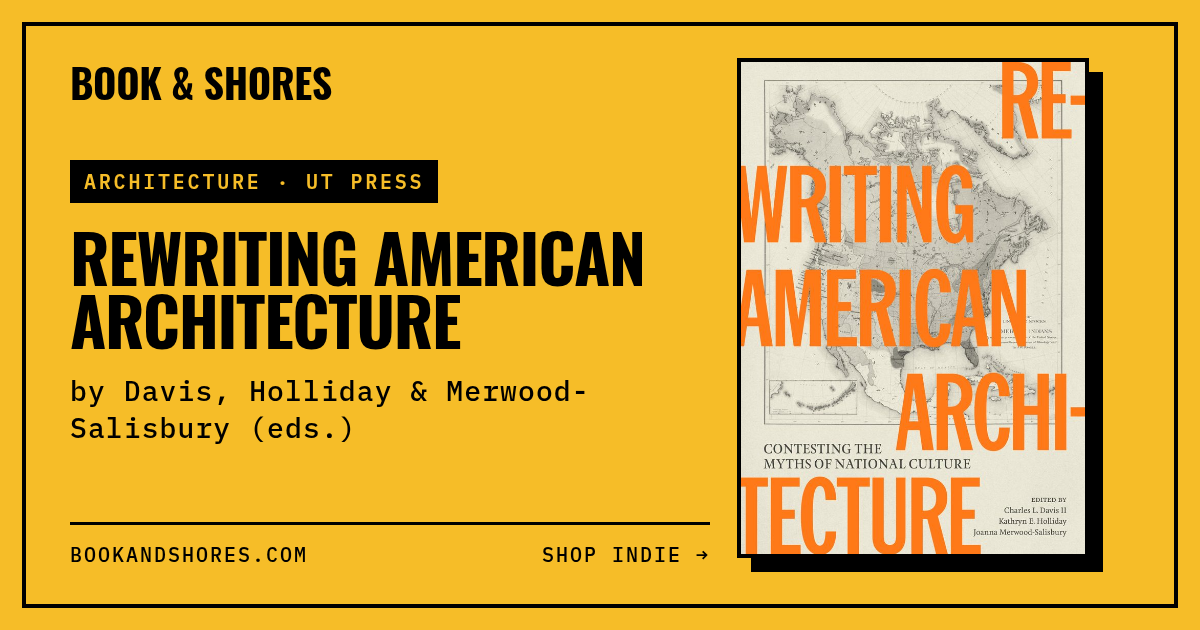
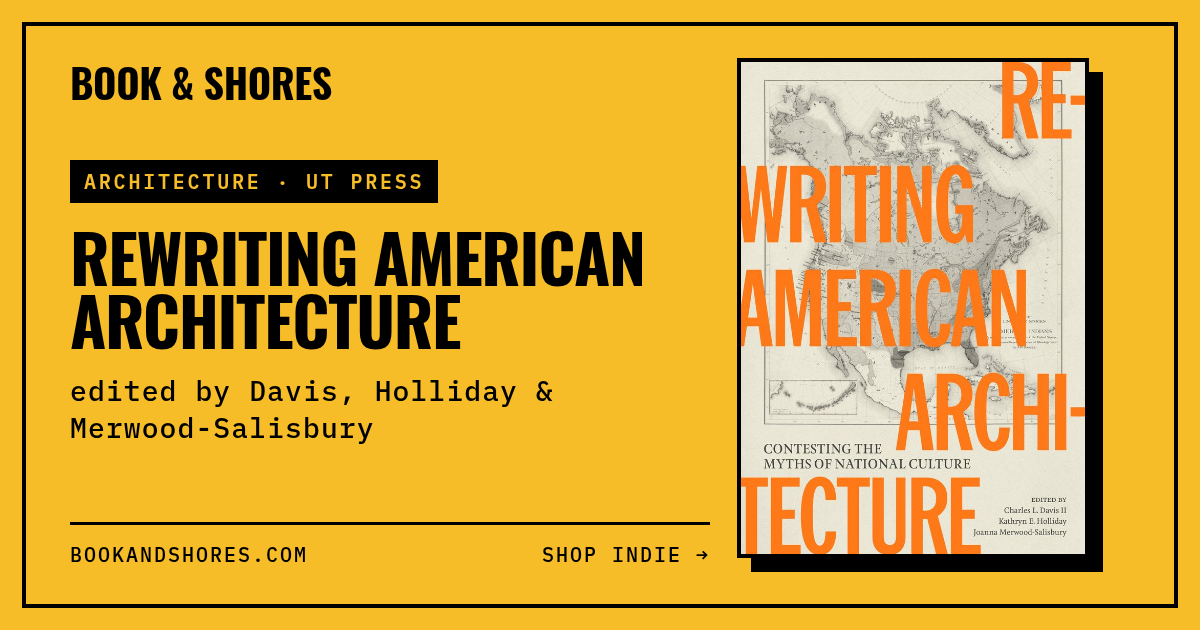
Remove purchase-source footer line on RAA + 3 new pages; RAA full take, curator note rewrite, 'edited by' card byline

Changed region(s): [[0.0617, 0.6032, 0.4933, 0.6635], [0.0617, 0.6635, 0.3083, 0.6937]]

diff --git a/book-rewriting-american-architecture.html b/book-rewriting-american-architecture.html
@@ -222,17 +222,19 @@
     <main>
         <!-- B&S: book page -->
         <section class="section">
-            <p class="intro-text"><strong>What this page is:</strong> our shelf card for one new book. Read the short version below, then tap Buy Now.</p>
+            <p class="intro-text"><strong>What this page is:</strong> our shelf card for one new book. Read our take below, then tap Buy Now.</p>
             <div class="book-detail">
                 <img src="weekly-texas-architecture.jpg" alt="Rewriting American Architecture: Contesting the Myths of National Culture, book cover">
                 <div>
                     <h2>Rewriting American Architecture</h2>
                     <p class="book-meta">Edited by Charles L. Davis II, Kathryn E. Holliday and Joanna Merwood-Salisbury • Architecture history • University of Texas Press paperback • Published September 2026</p>
-                    <p>The usual story of nineteenth-century American architecture is one of steady progress toward a single national style. The twenty essays in this collection argue that the buildings tell a messier story, shaped by race, labor, settler colonialism and territorial expansion. They range from Black builders and churches to Indigenous spatial practices, the Texas border and the politics of who counts as an architect.</p>
-                    <!-- B&S: OUR READ (DRAFT from the review PDF's introduction and the openings of chapters 4 and 9; AE to approve or rewrite before this goes live) -->
-                    <p class="our-read"><strong>Our read:</strong> the part that got us is who gets named. In the chapter on the Mason family of Austin, the Black builders, enslaved and free, behind some of the city's best-known buildings were often left out of the record while the Anglo settlers got the credit, and the author goes to genealogy and archives to put their names back. The Brownsville and Matamoros chapter does something similar for a border town that sits outside both countries' building histories. We have read the introduction and the openings of those two chapters, not all 408 pages, so consider this a first look.</p>
+                    <p style="margin-bottom:0.9rem;">The usual story of nineteenth-century American architecture is one of steady progress toward a single national style. The twenty essays in this collection argue that the buildings tell a messier story, shaped by race, labor, settler colonialism and territorial expansion. They range from Black builders and churches to Indigenous spatial practices, the Texas border and the politics of who counts as an architect.</p>
+                    <!-- B&S: OUR READ (from our full read of the publisher's review copy; AE to approve before this goes live) -->
+                    <p class="our-read" style="margin-bottom:0.9rem;"><strong>Our read:</strong> the thesis lands: "The history of architecture is not only a history of design but also a history of the land and of those who labored to shape it" (p. 6). The best essays are case studies you can stand in, and the back half is the strongest stretch. Tara A. Dudley traces Austin's Black stonemason Mason family, whose freedmen's settlement, Masontown, has "not even a historical marker" today (p. 82). Stephen Fox reads Brownsville and Matamoros as one border place. The mahogany essay follows the wood from coerced logging to English country houses and ends on this: "It is appropriate, then, that mahogany so commonly became doors—architectural devices for discretionary exclusion" (p. 201). The Standing Rock chapter, set around the Northern Pacific's Mandan depot and the 1888 land commission, ends cold: "In the end, only 22 out of 1,133 eligible men cast a vote" (p. 269). The Library of Congress essay on the building's 33 "ethnological heads" quotes the plain plan: "in the rear we have put the black races" (p. 332). Joanna Merwood-Salisbury takes apart the claim that Chicago's Home Insurance Building was the first skyscraper (p. 342), and notes that Jenney himself called it "the successful application of methods in use, with some variation in detail" (p. 347). The closing piece on where Wright's "Usonia" came from is a fun bit of word detective work.</p>
+                    <p class="our-read" style="margin-bottom:0.9rem;"><strong>Good to know:</strong> the introduction is the hardest going. It leans on terms like "ethnonational mythologies" and "historiographic construction" (pp. 4, 6), so start with the case studies if you like. With twenty contributors it reads more like a set of strong essays than a single argument, and it is not a picture-book survey.</p>
+                    <p class="our-read" style="margin-bottom:0.9rem;"><strong>In short:</strong> an important corrective that gets better as it goes. Start with the mahogany, Standing Rock, Library of Congress and skyscraper chapters, then double back.</p>
                     <!-- B&S: curator note, edit in your own words -->
-                    <p class="curator-note">The setting of the book is the United States across the long nineteenth century, from the early republic to the New Deal, with essays set in places such as Austin, Brownsville and Matamoros, Dakota Territory and Southern California. It is 408 pages with 114 black-and-white photographs. The University of Texas Press kindly sent us a digital copy. This page is our introduction and a first look, not a full review. Read it, then tell us what you think.</p>
+                    <p class="curator-note">Twenty contributors range across the long nineteenth century, from the early republic to the New Deal, with essays on Austin, Brownsville and Matamoros, Dakota Territory and Southern California. It is 408 pages with 114 black-and-white photographs. The University of Texas Press kindly sent us a review copy, and we read it in full. Our page numbers come from that copy and may differ slightly in the finished book.</p>
                     <p style="margin-bottom:1.2rem;"><a href="atlas.html" style="color: var(--black); font-weight:500;">On the Atlas: Austin, and Brownsville and Matamoros on the Texas border, places two of these essays study →</a></p>
                     <p><strong>What to do:</strong> if you love old buildings, historic preservation or American history, and want to see who built them and who was left out of the textbooks, tap Buy Now.</p>
                     <a href="https://bookshop.org/a/125864/9781477334171" class="buy-btn" target="_blank" rel="noopener sponsored" aria-label="Buy Rewriting American Architecture on Bookshop.org (opens in a new tab)">Buy Now</a>
@@ -250,7 +252,6 @@
         <div class="footer-content">
             <p style="margin-top: 2rem;">© 2026 Book &amp; Shores • Contact: <a href="mailto:readme@bookandshores.com" style="color: var(--black);">readme@bookandshores.com</a></p>
             <p class="bs-gift-footer" style="margin-top:0.8rem; font-size:0.9rem;"><a href="https://bookshop.org/a/125864/gift_cards" target="_blank" rel="noopener sponsored" style="color: var(--black); font-weight: 500;" aria-label="Give a gift card (opens in a new tab)">Give a gift card →</a></p>
-            <p style="font-size:0.85rem; color:var(--gray); margin-top:0.6rem;">Book &amp; Shores earns a small commission from purchases, which supports independent bookstores.</p>
         </div>
     </footer>
 </body>

diff --git a/book-learning-from-savannah.html b/book-learning-from-savannah.html
@@ -24,6 +24,18 @@
     <meta name="twitter:description" content="Learning from Savannah by David W. Gobel and Robin B. Williams (University of Georgia Press): how Savannah&#x27;s famous plan of squares was stretched for a century and a half, and how it shaped the city&#x27;s houses, churches and civic buildings. Curated by Book &amp; Shores.">
     <meta name="twitter:image" content="https://bookandshores.com/og/book-learning-from-savannah.png">
     <meta name="twitter:image:alt" content="Learning from Savannah by David W. Gobel and Robin B. Williams: book cover on a Book &amp; Shores card">
+    <meta property="og:type" content="book">
+    <meta property="og:url" content="https://bookandshores.com/book-learning-from-savannah.html">
+    <meta property="og:image" content="https://bookandshores.com/og/book-rewriting-american-architecture.png">
+    <meta property="og:image:width" content="1200">
+    <meta property="og:image:height" content="630">
+    <meta property="og:image:alt" content="Rewriting American Architecture, edited by Charles L. Davis II, Kathryn E. Holliday and Joanna Merwood-Salisbury: book cover on a Book &amp; Shores card">
+    <meta name="twitter:card" content="summary_large_image">
+    <meta name="twitter:site" content="@bookandshores">
+    <meta name="twitter:title" content="Rewriting American Architecture | Book &amp; Shores">
+    <meta name="twitter:description" content="Rewriting American Architecture, edited by Charles L. Davis II, Kathryn E. Holliday and Joanna Merwood-Salisbury (University of Texas Press): twenty essays that retell nineteenth-century American architecture through race, land, labor and settler colonialism. Curated by Book &amp; Shores.">
+    <meta name="twitter:image" content="https://bookandshores.com/og/book-rewriting-american-architecture.png">
+    <meta name="twitter:image:alt" content="Rewriting American Architecture, edited by Charles L. Davis II, Kathryn E. Holliday and Joanna Merwood-Salisbury: book cover on a Book &amp; Shores card">
     <link rel="preconnect" href="https://fonts.googleapis.com">
     <link rel="preconnect" href="https://fonts.gstatic.com" crossorigin>
     <link href="https://fonts.googleapis.com/css2?family=Oswald:wght@400;500;700&family=IBM+Plex+Mono:wght@400;500&display=swap" rel="stylesheet">
@@ -252,7 +264,6 @@
         <div class="footer-content">
             <p style="margin-top: 2rem;">© 2026 Book &amp; Shores • Contact: <a href="mailto:readme@bookandshores.com" style="color: var(--black);">readme@bookandshores.com</a></p>
             <p class="bs-gift-footer" style="margin-top:0.8rem; font-size:0.9rem;"><a href="https://bookshop.org/a/125864/gift_cards" target="_blank" rel="noopener sponsored" style="color: var(--black); font-weight: 500;" aria-label="Give a gift card (opens in a new tab)">Give a gift card →</a></p>
-            <p style="font-size:0.85rem; color:var(--gray); margin-top:0.6rem;">Book &amp; Shores earns a small commission from purchases, which supports independent bookstores.</p>
         </div>
     </footer>
 </body>

diff --git a/book-big-american-writer.html b/book-big-american-writer.html
@@ -24,6 +24,18 @@
     <meta name="twitter:description" content="Big American Writer: The Bilingual Jack Kerouac by Jean-Christophe Cloutier (Columbia University Press): Kerouac&#x27;s French manuscripts and his French Canadian upbringing in Lowell, read as the engine of his work. Curated by Book &amp; Shores.">
     <meta name="twitter:image" content="https://bookandshores.com/og/book-big-american-writer.png">
     <meta name="twitter:image:alt" content="Big American Writer by Jean-Christophe Cloutier: book cover on a Book &amp; Shores card">
+    <meta property="og:type" content="book">
+    <meta property="og:url" content="https://bookandshores.com/book-big-american-writer.html">
+    <meta property="og:image" content="https://bookandshores.com/og/book-rewriting-american-architecture.png">
+    <meta property="og:image:width" content="1200">
+    <meta property="og:image:height" content="630">
+    <meta property="og:image:alt" content="Rewriting American Architecture, edited by Charles L. Davis II, Kathryn E. Holliday and Joanna Merwood-Salisbury: book cover on a Book &amp; Shores card">
+    <meta name="twitter:card" content="summary_large_image">
+    <meta name="twitter:site" content="@bookandshores">
+    <meta name="twitter:title" content="Rewriting American Architecture | Book &amp; Shores">
+    <meta name="twitter:description" content="Rewriting American Architecture, edited by Charles L. Davis II, Kathryn E. Holliday and Joanna Merwood-Salisbury (University of Texas Press): twenty essays that retell nineteenth-century American architecture through race, land, labor and settler colonialism. Curated by Book &amp; Shores.">
+    <meta name="twitter:image" content="https://bookandshores.com/og/book-rewriting-american-architecture.png">
+    <meta name="twitter:image:alt" content="Rewriting American Architecture, edited by Charles L. Davis II, Kathryn E. Holliday and Joanna Merwood-Salisbury: book cover on a Book &amp; Shores card">
     <link rel="preconnect" href="https://fonts.googleapis.com">
     <link rel="preconnect" href="https://fonts.gstatic.com" crossorigin>
     <link href="https://fonts.googleapis.com/css2?family=Oswald:wght@400;500;700&family=IBM+Plex+Mono:wght@400;500&display=swap" rel="stylesheet">
@@ -252,7 +264,6 @@
         <div class="footer-content">
             <p style="margin-top: 2rem;">© 2026 Book &amp; Shores • Contact: <a href="mailto:readme@bookandshores.com" style="color: var(--black);">readme@bookandshores.com</a></p>
             <p class="bs-gift-footer" style="margin-top:0.8rem; font-size:0.9rem;"><a href="https://bookshop.org/a/125864/gift_cards" target="_blank" rel="noopener sponsored" style="color: var(--black); font-weight: 500;" aria-label="Give a gift card (opens in a new tab)">Give a gift card →</a></p>
-            <p style="font-size:0.85rem; color:var(--gray); margin-top:0.6rem;">Book &amp; Shores earns a small commission from purchases, which supports independent bookstores.</p>
         </div>
     </footer>
 </body>

diff --git a/book-the-night-before.html b/book-the-night-before.html
@@ -24,6 +24,18 @@
     <meta name="twitter:description" content="The Night Before: Essays on Music, Comics, and Culture by David Hajdu (Columbia University Press): a critic&#x27;s collection, from Billie Holiday to Billie Eilish, the Beatles to Roz Chast. Curated by Book &amp; Shores.">
     <meta name="twitter:image" content="https://bookandshores.com/og/book-the-night-before.png">
     <meta name="twitter:image:alt" content="The Night Before by David Hajdu: book cover on a Book &amp; Shores card">
+    <meta property="og:type" content="book">
+    <meta property="og:url" content="https://bookandshores.com/book-the-night-before.html">
+    <meta property="og:image" content="https://bookandshores.com/og/book-rewriting-american-architecture.png">
+    <meta property="og:image:width" content="1200">
+    <meta property="og:image:height" content="630">
+    <meta property="og:image:alt" content="Rewriting American Architecture, edited by Charles L. Davis II, Kathryn E. Holliday and Joanna Merwood-Salisbury: book cover on a Book &amp; Shores card">
+    <meta name="twitter:card" content="summary_large_image">
+    <meta name="twitter:site" content="@bookandshores">
+    <meta name="twitter:title" content="Rewriting American Architecture | Book &amp; Shores">
+    <meta name="twitter:description" content="Rewriting American Architecture, edited by Charles L. Davis II, Kathryn E. Holliday and Joanna Merwood-Salisbury (University of Texas Press): twenty essays that retell nineteenth-century American architecture through race, land, labor and settler colonialism. Curated by Book &amp; Shores.">
+    <meta name="twitter:image" content="https://bookandshores.com/og/book-rewriting-american-architecture.png">
+    <meta name="twitter:image:alt" content="Rewriting American Architecture, edited by Charles L. Davis II, Kathryn E. Holliday and Joanna Merwood-Salisbury: book cover on a Book &amp; Shores card">
     <link rel="preconnect" href="https://fonts.googleapis.com">
     <link rel="preconnect" href="https://fonts.gstatic.com" crossorigin>
     <link href="https://fonts.googleapis.com/css2?family=Oswald:wght@400;500;700&family=IBM+Plex+Mono:wght@400;500&display=swap" rel="stylesheet">
@@ -252,7 +264,6 @@
         <div class="footer-content">
             <p style="margin-top: 2rem;">© 2026 Book &amp; Shores • Contact: <a href="mailto:readme@bookandshores.com" style="color: var(--black);">readme@bookandshores.com</a></p>
             <p class="bs-gift-footer" style="margin-top:0.8rem; font-size:0.9rem;"><a href="https://bookshop.org/a/125864/gift_cards" target="_blank" rel="noopener sponsored" style="color: var(--black); font-weight: 500;" aria-label="Give a gift card (opens in a new tab)">Give a gift card →</a></p>
-            <p style="font-size:0.85rem; color:var(--gray); margin-top:0.6rem;">Book &amp; Shores earns a small commission from purchases, which supports independent bookstores.</p>
         </div>
     </footer>
 </body>

diff --git a/scripts/make_link_cards.py b/scripts/make_link_cards.py
@@ -65,7 +65,8 @@ BOOKS = [
     dict(slug="victorian-psycho", cover="9781324097785.jpg", label="Novel · Liveright · Film in theaters Nov 13",
          title="Victorian Psycho", author="Virginia Feito"),
     dict(slug="rewriting-american-architecture", cover="weekly-texas-architecture.jpg", label="Architecture · UT Press",
-         title="Rewriting American Architecture", author="Davis, Holliday & Merwood-Salisbury (eds.)"),
+         title="Rewriting American Architecture", author="Davis, Holliday & Merwood-Salisbury",
+         byline="edited by Davis, Holliday & Merwood-Salisbury"),
     dict(slug="learning-from-savannah", cover="9780820374604.jpg", maxh=460, label="Architecture · UGA Press",
          title="Learning from Savannah", author="David W. Gobel & Robin B. Williams"),
     dict(slug="big-american-writer", cover="9780231222457.jpg", label="Literary History · Columbia",
@@ -114,7 +115,7 @@ h1{{margin-top:22px;font-family:Oswald;font-weight:700;font-size:{size}px;line-h
 .cover{{height:{h}px;border:4px solid #000;box-shadow:14px 14px 0 #000;display:block}}
 </style></head><body><div class="frame"></div>
 <div class="left"><div class="mark">BOOK &amp; SHORES</div>
-<div class="label">{e(b['label'])}</div><h1>{e(t)}</h1><div class="by">by {e(b['author'])}</div>
+<div class="label">{e(b['label'])}</div><h1>{e(t)}</h1><div class="by">{e(b.get('byline', 'by ' + b['author']))}</div>
 <div class="foot"><span>bookandshores.com</span><span>Shop indie →</span></div></div>
 <div class="cwrap"><img class="cover" src="file://{cover}"></div></body></html>"""
 
